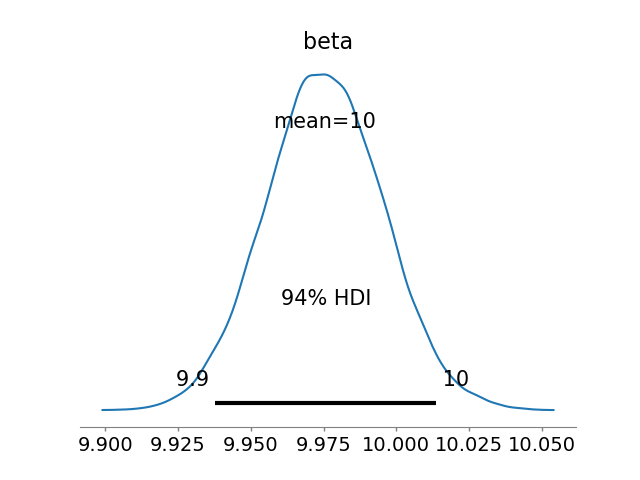
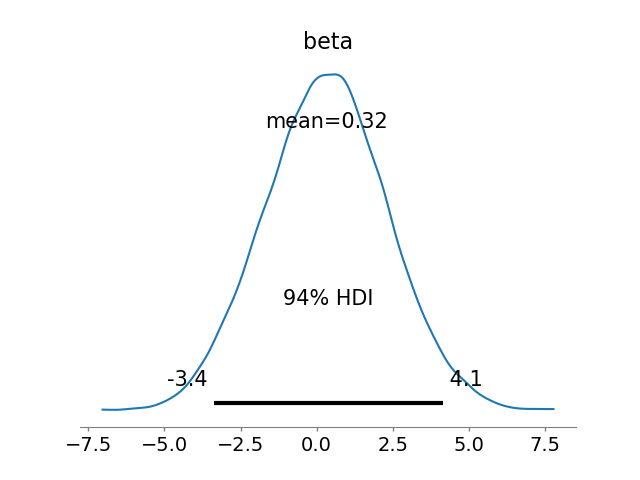
working bayesian point estimate

diff --git a/horse_race.py b/horse_race.py
@@ -52,7 +52,7 @@ def gaussian_qq_plot(yvar, figpath='figures/qq_residuals'):
 
 
 # LOAD DATA #
-data, dgp = load_data(ate=10)
+data, dgp = load_data(num_features=1)
 resids = residualize_features(data, dgp['features'])
 reg = sm.OLS.from_formula("yresid ~ 1 + dresid", data=data).fit(cov_type='HC3')
 print(reg.summary())
@@ -64,7 +64,7 @@ print(reg.summary())
 data['logy'] = np.log(resids['yresid'] - resids['yresid'].min() + 0.01)
 gaussian_qq_plot(data.loc[data['d']==0, 'logy'])
 
-# set up pymc3 model
+# run pymc3 model
 with pm.Model() as model:
     alpha = pm.Normal('alpha', mu=0, sigma=100) # very weak priors
     beta = pm.Normal('beta', mu=0, sigma=100)
@@ -72,11 +72,17 @@ with pm.Model() as model:
     y_obs = pm.Normal('y_obs', mu=mu, sigma=100, observed=data['logy'])
 
 with model:
-    trace = pm.sample(5000, return_inferencedata=False)
+    trace = pm.sample(5000, return_inferencedata=True)
 
-_beta = np.exp(trace['beta'])
-print(_beta.mean())
+# summarize
+az.plot_posterior(trace, var_names=["beta"], hdi_prob=0.94)
+plt.savefig('figures/beta_posterior')
+plt.close()
 
+_posterior_mean = az.summary(trace)['mean']['beta']
+_posterior_sd = az.summary(trace)['sd']['beta']
+_beta = np.exp(_posterior_mean + _posterior_sd**2/2)
+print(_beta)
 
 
 # R-LEARNER SHRINKAGE #
